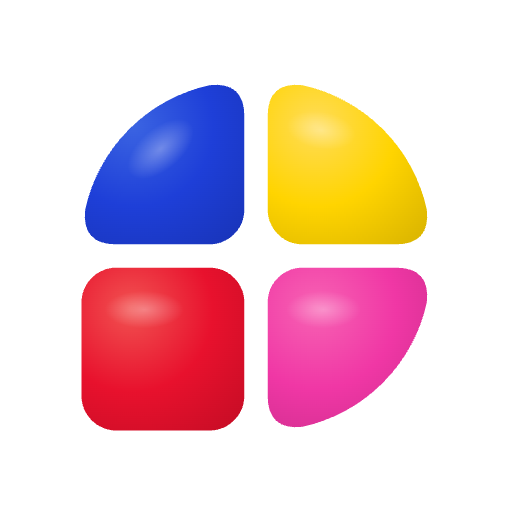
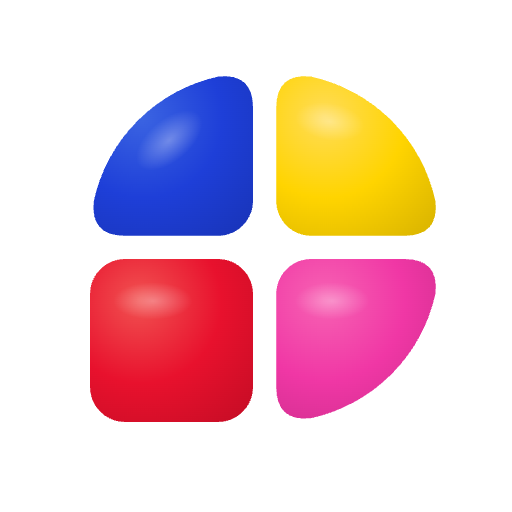
아이콘 시각 중심 보정, 대표 제목·홈 화면 이름 정리
- 왼쪽 아래만 네모라 무게중심이 왼쪽 아래로 쏠려 있던 마크를 아이콘·파비콘·마크 파일에서 (+0.74, -0.74) 옮겨 무게중심을 가운데로
- 대표 제목 'Talkstage — 중요한 발표 한 번을 위한 리허설 코치', 화면별 '%s · Talkstage' 템플릿
- 홈 화면에 추가하면 이름은 'Talkstage' (apple-mobile-web-app-title, manifest)

diff --git a/src/app/layout.tsx b/src/app/layout.tsx
@@ -16,9 +16,11 @@ const OG_TITLE = 'Talkstage — 중요한 발표 한 번을 위한 리허설 코
 // OG·트위터 이미지는 app/opengraph-image.png · twitter-image.png, 아이콘은 icon.svg · apple-icon.png · favicon.ico(파일 규칙)
 export const metadata: Metadata = {
   metadataBase: new URL('https://talkstage-three.vercel.app'),
-  title: 'Talkstage · 발표 리허설',
+  // 탭·검색 결과는 대표 제목, 다른 화면은 '새 리허설 · Talkstage'. 홈 화면에 추가하면 이름은 'Talkstage' 만(appleWebApp·manifest).
+  title: { default: OG_TITLE, template: '%s · Talkstage' },
   description: DESC,
   applicationName: 'Talkstage',
+  appleWebApp: { title: 'Talkstage' },
   openGraph: { type: 'website', url: '/', siteName: 'Talkstage', locale: 'ko_KR', title: OG_TITLE, description: DESC },
   twitter: { card: 'summary_large_image', title: OG_TITLE, description: DESC },
 };

diff --git a/src/app/manifest.ts b/src/app/manifest.ts
@@ -1,0 +1,19 @@
+import type { MetadataRoute } from 'next';
+
+/** 안드로이드 크롬 '홈 화면에 추가' 이름·아이콘. 이름은 실제 앱처럼 'Talkstage' 만, 화면은 브라우저 그대로 열어요. */
+export default function manifest(): MetadataRoute.Manifest {
+  return {
+    name: 'Talkstage',
+    short_name: 'Talkstage',
+    description: '중요한 발표 한 번을 위한 리허설 코치',
+    start_url: '/',
+    display: 'browser',
+    background_color: '#ffffff',
+    theme_color: '#ffffff',
+    icons: [
+      { src: '/icon.svg', type: 'image/svg+xml', sizes: 'any' },
+      { src: '/brand/png/background/talkstage-app-icon-512.png', type: 'image/png', sizes: '512x512' },
+      { src: '/brand/png/background/talkstage-app-icon-1024.png', type: 'image/png', sizes: '1024x1024' },
+    ],
+  };
+}

diff --git a/src/app/dev/eval/page.tsx b/src/app/dev/eval/page.tsx
@@ -1,7 +1,7 @@
 import { notFound } from 'next/navigation';
 import { EvalRunner } from '@/components/dev/EvalRunner';
 
-export const metadata = { title: '정확도 검증 · Talkstage', robots: { index: false } };
+export const metadata = { title: '정확도 검증', robots: { index: false } };
 
 /** 개발 서버 전용. 배포 빌드에서는 404 예요. */
 export default function EvalPage() {

diff --git a/src/app/rehearsal/new/page.tsx b/src/app/rehearsal/new/page.tsx
@@ -2,7 +2,7 @@ import type { Metadata } from 'next';
 import { Suspense } from 'react';
 import { RehearsalEntry } from '@/components/rehearsal/RehearsalEntry';
 
-export const metadata: Metadata = { title: '새 리허설 · Talkstage' };
+export const metadata: Metadata = { title: '새 리허설' };
 
 export default function NewRehearsalPage() {
   return <Suspense><RehearsalEntry /></Suspense>;
